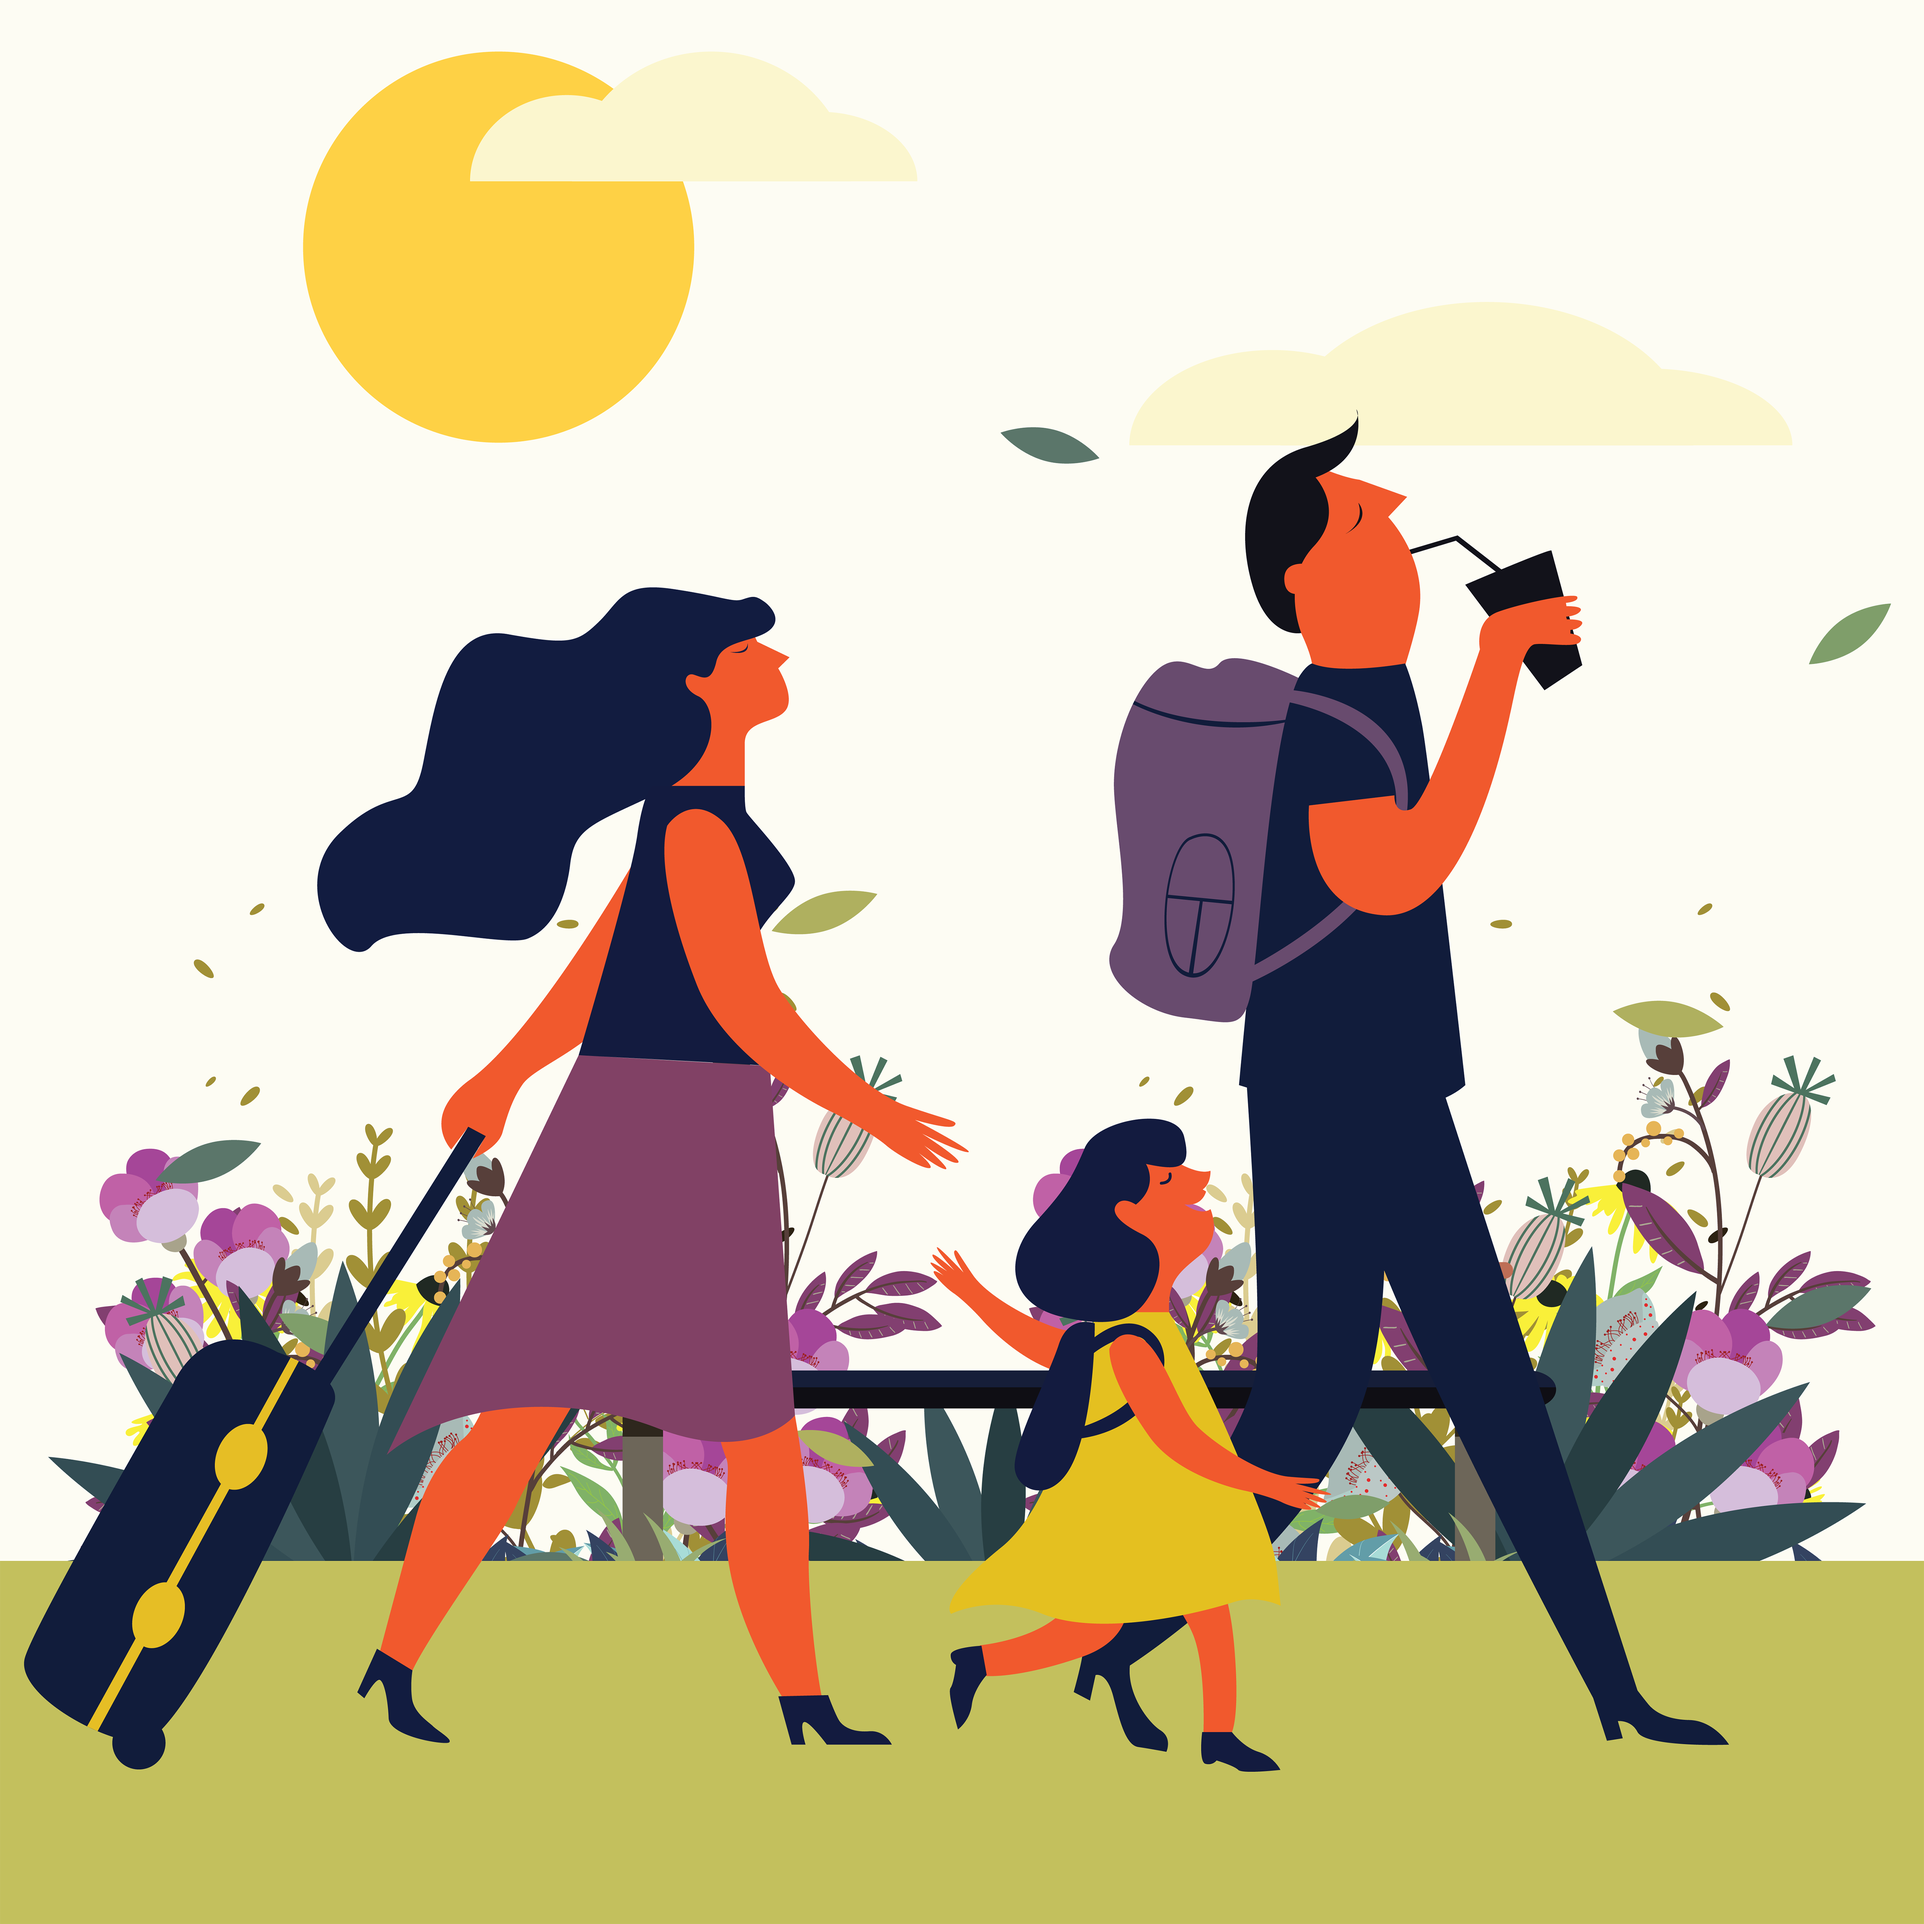
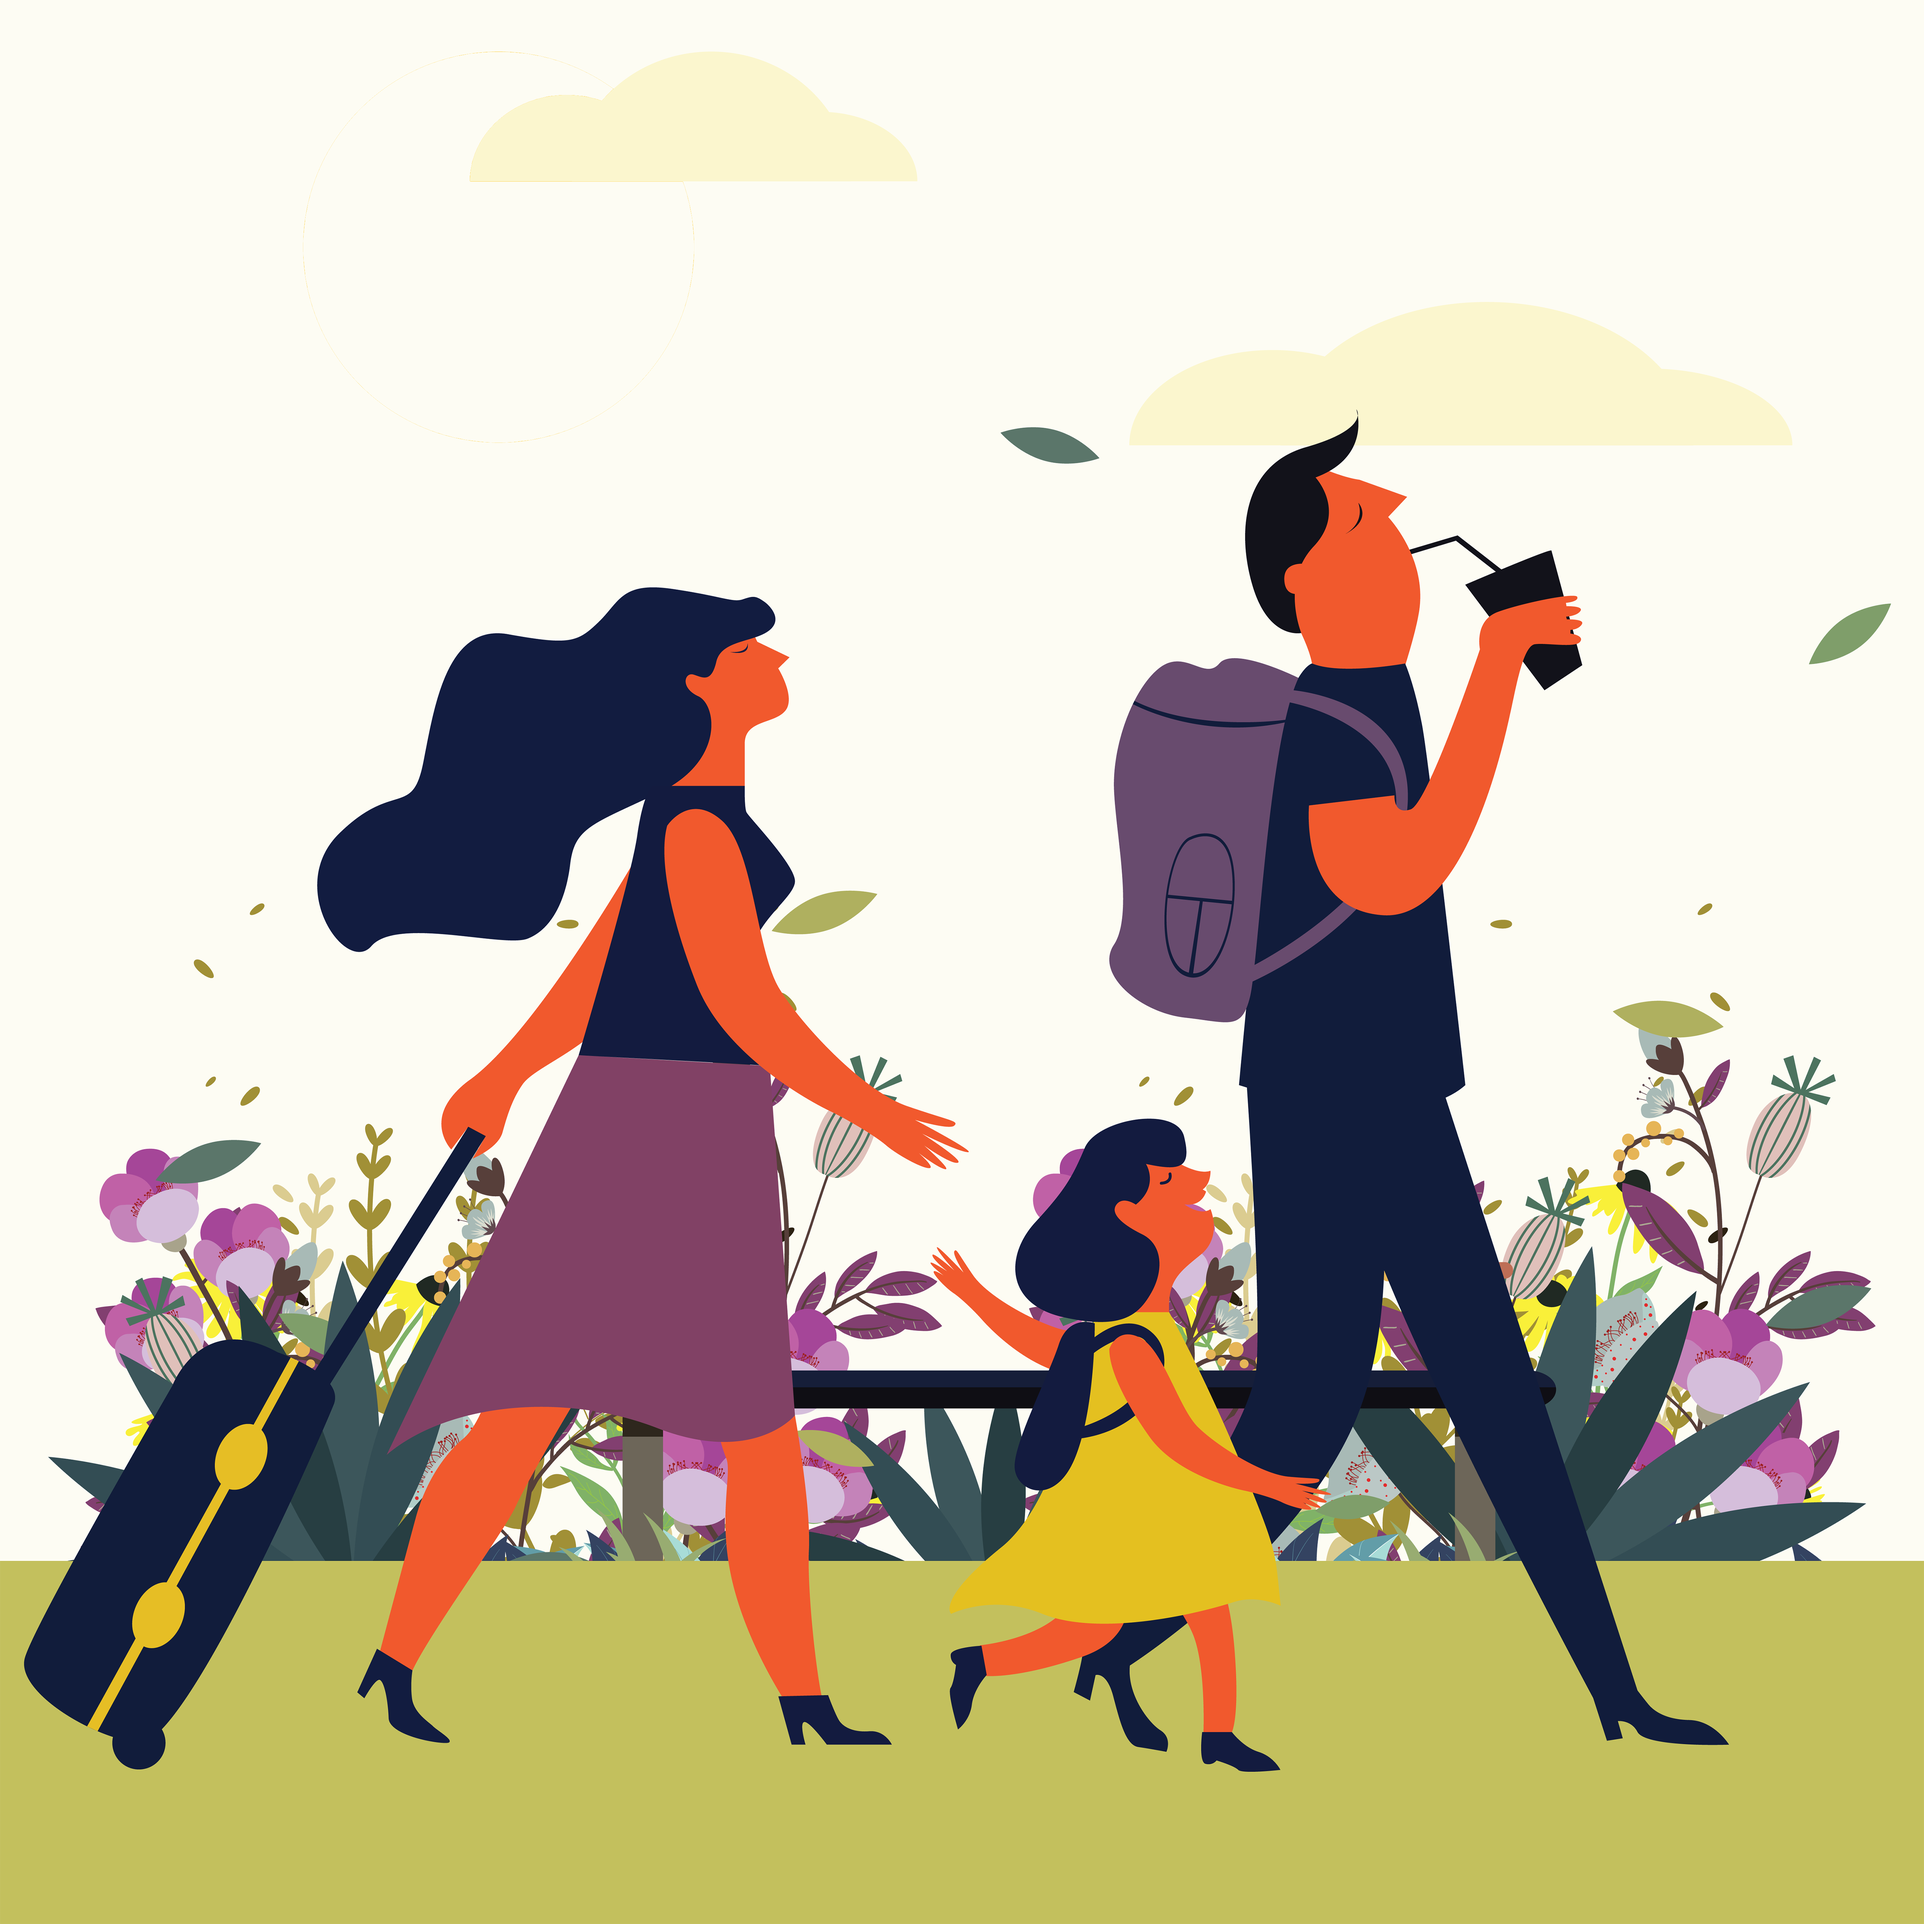
UPDATE: Updated card artwork to better suit Results Modal layout

Changed region(s): [[0.156, 0.0, 0.3744, 0.2496]]

diff --git a/index.html b/index.html
@@ -89,7 +89,7 @@
           <div class="cell small-4">
             <div class="card">
               <div class="card-section">
-                <img src="./assets/images/Piknik_Background.png">
+                <img src="./assets/images/Results_Modal_Start.png">
               </div>
               <div class="card-section">
                 <h4>Start Point</h4>
@@ -102,7 +102,7 @@
           <div class="cell small-4">
             <div class="card">
               <div class="card-section">
-                <img src="./assets/images/Piknik_Background.png">
+                <img src="./assets/images/Results_Modal_Food.png">
               </div>
               <div class="card-section">
                 <h4>Food Stop</h4>
@@ -117,7 +117,7 @@
           <div class="cell small-4">
             <div class="card">
               <div class="card-section">
-                <img src="./assets/images/Piknik_Background.png">
+                <img src="./assets/images/Results_Modal_Destination.png">
               </div>
               <div class="card-section">
                 <h4>Destination</h4>
